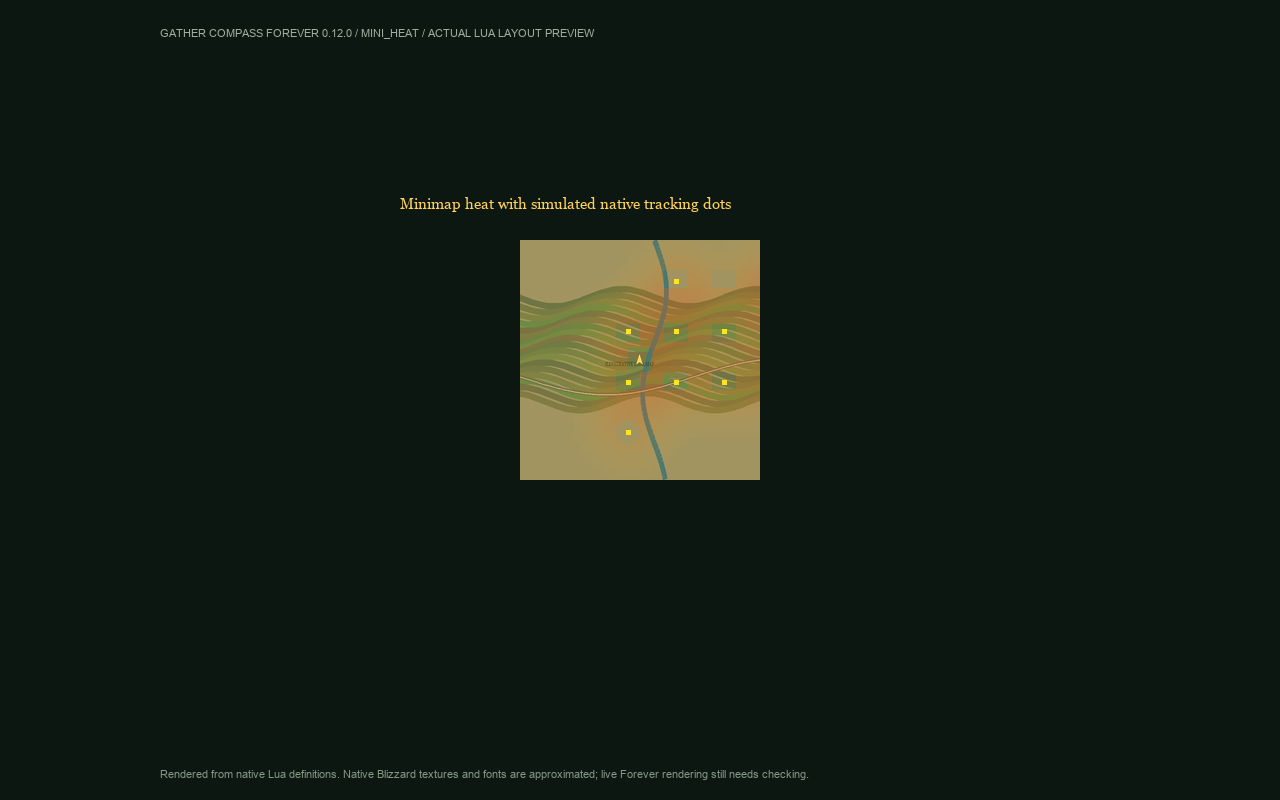
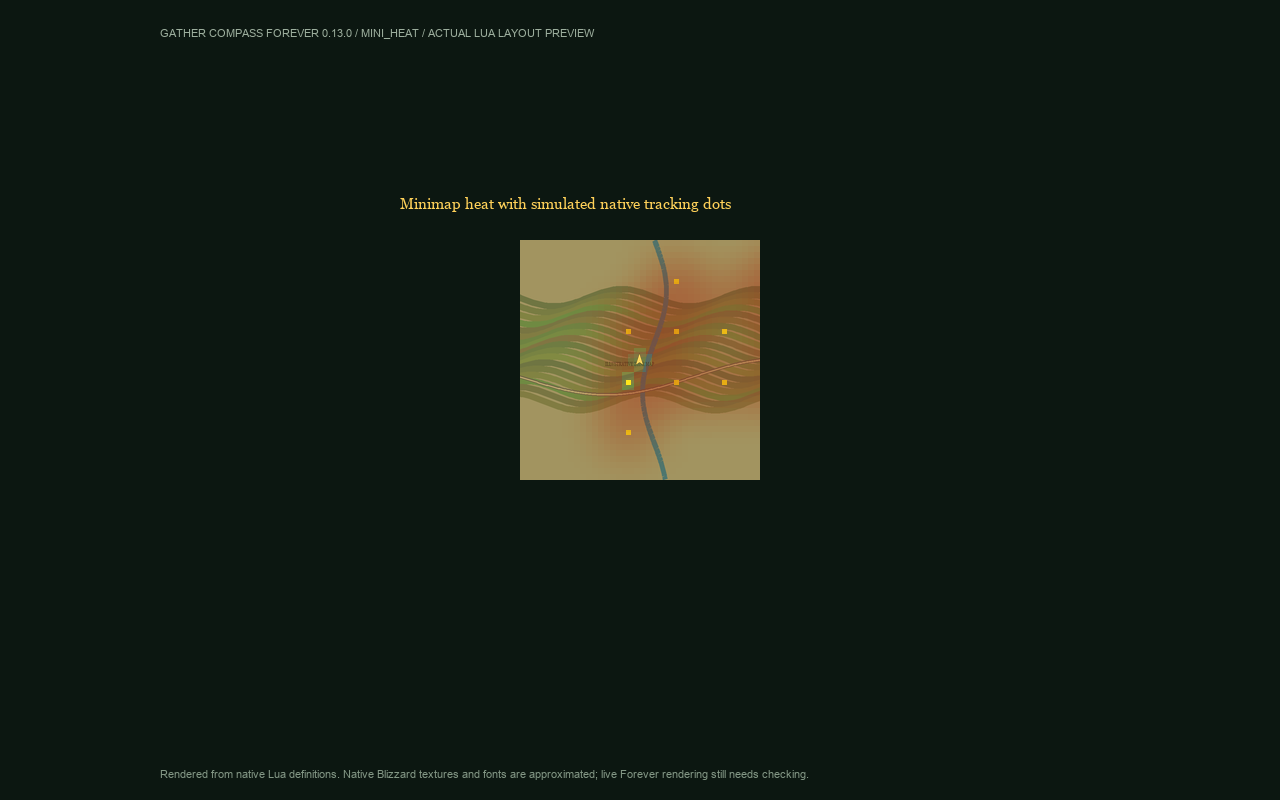
Prepare map clarity and scrolling release 0.13.0

Changed region(s): [[0.4688, 0.3438, 0.5938, 0.5625]]

diff --git a/tests/package.py b/tests/package.py
@@ -1,7 +1,7 @@
 from pathlib import Path
 import zipfile
 root = Path(__file__).resolve().parents[1]
-path = root / 'dist/GatherCompassForever-0.12.0.zip'
+path = root / 'dist/GatherCompassForever-0.13.0.zip'
 assert path.is_file(), 'Installable ZIP missing'
 with zipfile.ZipFile(path) as z:
     names = z.namelist()
@@ -11,7 +11,7 @@ with zipfile.ZipFile(path) as z:
     metadata = dict(line[3:].split(': ', 1) for line in toc.splitlines() if line.startswith('## '))
     assert metadata['Title'] == 'Gather Compass Forever'
     assert metadata['SavedVariables'] == 'GatherCompassForeverDB'
-    assert metadata['Version'] == '0.12.0'
+    assert metadata['Version'] == '0.13.0'
     assert metadata['X-License'] == 'MIT'
     assert metadata['IconTexture'] == r'Interface\AddOns\GatherCompassForever\Media\Icon'
     for texture in ['Icon', 'LogoSheet', 'EmptyEmblem', 'NodeRing', 'NodeSquare', 'GuideArrow', 'HeatBlob', 'MinimapMasks']:

diff --git a/tools/render_ui_preview.py b/tools/render_ui_preview.py
@@ -153,7 +153,7 @@ def render(scene):
         resolving.remove(k);boxes[k]=r;return r
     def visible(o):return o['shown'] is not False and (o['parent'] is None or ident(o['parent'])==0 or visible(o['parent']))
     im=Image.new('RGBA',(screen_w,screen_h),'#0c1711');d=ImageDraw.Draw(im)
-    d.text((160,27),'GATHER COMPASS FOREVER 0.12.0 / '+scene.upper()+' / ACTUAL LUA LAYOUT PREVIEW',font=ImageFont.truetype('C:/Windows/Fonts/arial.ttf',11),fill='#9cae9d')
+    d.text((160,27),'GATHER COMPASS FOREVER 0.13.0 / '+scene.upper()+' / ACTUAL LUA LAYOUT PREVIEW',font=ImageFont.truetype('C:/Windows/Fonts/arial.ttf',11),fill='#9cae9d')
     fonts={}; text_report=[]
     def font(o):
         size=int(o['fontSize'] or 12);family='georgia.ttf' if 'FRIZ' in (o['fontPath'] or '') else 'arial.ttf';key=(family,size)

diff --git a/tools/package.py b/tools/package.py
@@ -14,7 +14,7 @@ for name in files:
     assert (root / name).is_file(), f'Missing package file: {name}'
 dist = root / 'dist'
 dist.mkdir(exist_ok=True)
-path = dist / 'GatherCompassForever-0.12.0.zip'
+path = dist / 'GatherCompassForever-0.13.0.zip'
 with zipfile.ZipFile(path, 'w', zipfile.ZIP_DEFLATED) as z:
     for name in files:
         z.write(root / name, 'GatherCompassForever/' + name)

diff --git a/README.md b/README.md
@@ -14,7 +14,7 @@ where resources grow, build farming routes and follow a clear in-game guide arro
 ![Tests](https://github.com/Red463/GatherCompassForever/actions/workflows/ci.yml/badge.svg)
 ![MIT license](https://img.shields.io/badge/license-MIT-green.svg)
 
-**Current version:** 0.12.0 ? **Client interface:** 16001 ? **Command:** `/gcf`
+**Current version:** 0.13.0 ? **Client interface:** 16001 ? **Command:** `/gcf`
 
 ## What it does
 
@@ -23,7 +23,7 @@ where resources grow, build farming routes and follow a clear in-game guide arro
 - **Import all zones.** Read installed GatherMate2_Data directly, with GatherMate2's
   saved observations as a fallback. Repeated imports merge matching locations.
 - **Choose what to farm.** Filter by source, herbs/ore and individual materials, with
-  shared checkboxes for maps and generated routes, a scrolling material list and
+  independent map-marker and route-target checkboxes, scrolling lists and
   one-time Gatherable (including grey) or Skill-ups material selection.
 - **Generate a local corridor.** Start immediately, or review a large zone map and
   remove individual nodes with undo. No save step is needed.
@@ -33,7 +33,7 @@ where resources grow, build farming routes and follow a clear in-game guide arro
   requirements, and review a resource route or guide to a nearby known location.
 - **Read crowded maps.** Shared count badges group overlapping icons; hover for a
   resource breakdown. Minimap outlines retain their original spawn positions.
-- **Tune map markers.** Separate World map/Minimap pages control sizes, opacity,
+- **Tune map markers.** Visible nodes chooses everyday markers; World map/Minimap pages control sizes, opacity,
   grouping and nearby-icon hiding without losing hollow outlines.
 - **Resize the panel.** Drag its bottom-right corner to expand the map and lists while
   keeping text and controls at their normal size. Dimensions and position are saved.
@@ -42,7 +42,7 @@ where resources grow, build farming routes and follow a clear in-game guide arro
 
 ## Install
 
-1. Download `GatherCompassForever-0.12.0.zip` from
+1. Download `GatherCompassForever-0.13.0.zip` from
    [Releases](https://github.com/Red463/GatherCompassForever/releases/latest).
    Choose the addon ZIP asset rather than GitHub's automatic **Source code** ZIP.
 2. Close WoW and extract the `GatherCompassForever` folder into your Forever
@@ -76,7 +76,7 @@ These are **layout previews rendered from the addon's Lua UI**, with substitute
 fonts, placeholder resource icons and an illustrative map canvas. They are not
 in-game screenshots; actual Forever textures and rendering can differ.
 
-### Welcome and shared filters
+### Welcome and route targets
 
 Welcome introduces the workflow, imports all available zones and shows import status.
 It appears on first use; **Choose materials** in step 2 opens the Routes checkboxes.
@@ -84,7 +84,9 @@ Guide-arrow clicks still open Routes directly.
 
 ![Welcome tab with introduction, all-zone import and quick navigation](docs/images/welcome.png)
 
-Source and Gathering use independent checkboxes. The material list supports mouse-wheel
+The Routes sidebar is labelled **Route targets** and controls new routes and their
+review sketch. Everyday map markers have separate selections under **Node display >
+Visible nodes**. Both use source/type checkboxes and skill-coloured materials. The route material list supports mouse-wheel
 scrolling and a scrollbar, with icons and skill-coloured names.
 
 ![Checkbox filters and a vertically scrolling material list](docs/images/filters.png)
@@ -114,7 +116,9 @@ Exactly coincident review nodes still open the chooser so every member remains s
 ### Node Codex
 
 Node Codex combines the previous Atlas and Resources pages. Browse the full supported
-catalogue with type, skill, source and zone filters plus name search. Tiles show the
+catalogue with type, skill, source and zone filters plus name search. The tile grid
+and ranked-zone list scroll vertically; search and column headers stay visible.
+Back restores your previous scroll position. Tiles show the
 best skill-up state among currently gatherable sources; scoped results use only
 sources with matching locations. The unrestricted catalogue includes all supported
 sources. Details show every source's own requirement and colour. Unknown data stays neutral.
@@ -123,7 +127,7 @@ Codex browsing does not rewrite Routes checkboxes. Current-zone route/nearest ac
 use the selected resource intersected with those checkboxes, and preserve active
 guidance until it is stopped. Coordinate tables and the redundant Welcome button
 have been removed. Map buttons are available only when matching locations also pass
-the Routes checkboxes. Items without location data remain in the default full catalogue.
+the effective map-marker selections. Items without location data remain in the default full catalogue.
 
 ![Node Codex with skill-coloured tiles and browsing filters](docs/images/node-codex.png)
 
@@ -131,12 +135,14 @@ the Routes checkboxes. Items without location data remain in the default full ca
 
 ### Heatmap corridor
 
-Select **Heatmap corridor** above the route sketch to replace the lines with a soft,
-warm band through the generated farming areas. It is a route view, rather than a
+Select **Heatmap corridor** above the route sketch to replace the lines with a darker,
+soft burgundy band through the generated farming areas. It is a route view, rather than a
 live resource scanner. The arrow follows the same points; switching views does not
 regenerate the route. Heat also appears on the minimap, replacing its route lines,
 while resource markers and the destination marker remain. Its bounded transparent
-field leaves clearance around the player and known resources. Native unknown live
+field keeps small feathered clearance around the player and current destination.
+It no longer cuts holes around every possible spawn. Thin route lines retain their
+known-node clearance. Native unknown live
 blips are not enumerable, so check tracking contrast in your client. Unsupported
 custom minimap shapes hide heat rather than spilling outside the map. When Forever
 ignores minimap rotation, an addon-owned projection keeps icons, outlines and the
@@ -175,7 +181,7 @@ zone into one circuit. The displayed counts show when other areas are omitted.
 
 **Node Codex** offers ranked zones, personal history, skill-coloured sources and
 current-zone resource guidance in one page. Clicking a ranked zone focuses that
-resource on the world map, subject to shared checkbox filters. Closing the map
+resource on the world map, subject to the effective map-marker filters. Closing the map
 restores its usual display.
 
 ## Settings and commands
@@ -191,13 +197,27 @@ restores its usual display.
 | `/gcf inspect report` | Show the latest local capture |
 | `/gcf inspect off` | Cancel a pending capture |
 
-The sidebar filters this addon's node markers on both maps and new route generation
-together. Tick **My discoveries**, **Imported locations**, **Herbs** and **Ore** in any
-combination, then tick individual materials. Unticking every source or type gives no
-matching nodes; it does not reset your choices. These selections do not change a
-current plan or interrupt guidance already running. Review markers follow the new
-selections; regenerate to apply them to the route itself. A changed-selection message
-reminds you to generate again when you want the new choices applied.
+**Routes > Route targets** controls new route generation and the review sketch.
+Changing these choices does not change everyday map markers or interrupt the current
+route. Regenerate when you want the new choices applied to guidance.
+
+**Node display > Visible nodes** controls ordinary world-map and minimap markers
+across all zones. Marker-only users can configure everything here without generating
+a route. Sources, gathering types and material selections are independent of Routes.
+Existing shared preferences are copied into both sets on upgrade; explicit empty
+selections are retained.
+
+Optionally enable **Use route selections while following**. Both maps then use the
+active guidance's saved filter snapshot, including while paused or suspended.
+Changing the sidebar mid-route does not rewrite that snapshot. Stop/completion
+restores everyday markers without overwriting their preferences. The Visible nodes
+page identifies when the override is active. It is off by default.
+
+![Everyday map-marker choices and the optional temporary route override](docs/images/marker-filters.png)
+
+In either set, unticking every source or gathering type gives no matching nodes;
+this does not reset your choices. Marker filters do not hide the route overlay,
+destination or arrow.
 
 **All** selects all materials; untick it to clear the selection. **Gatherable** selects
 known resources your current skill can gather, including grey resources and capped
@@ -206,7 +226,7 @@ known orange, yellow and green materials across matching known zones once. It ex
 grey, too-difficult and unknown resources, and you can edit the result afterward.
 The selected materials do not change automatically when your profession skill rises.
 
-**Node display** has separate **World map** and **Minimap** pages. Configure icon
+**Node display** has **Visible nodes**, **World map** and **Minimap** pages. Configure icon
 sizes/opacities and grouping on each map; minimap outlines have their own size and
 opacity. The nearby-hide distance affects icons/counts, while hollow outlines stay
 at their real known positions. **Show route overlay** and its strength slider apply
@@ -217,15 +237,25 @@ bounded strength to keep it transparent. Existing appearance values are preserve
 
 ![Minimap markers, tracking clearance and route-overlay controls](docs/images/node-display-mini.png)
 
-**Preferences** controls arrival distance, arrow scale,
-optional labels and minimap-button visibility. Use `/gcf` to restore the minimap
-button if it is hidden.
+**Preferences** groups Navigation, Guide arrow and Panel & minimap controls.
+**Advance to next waypoint within** sets a radius: at15 yards, entering a15-yard
+radius advances the guide without requiring a harvest. Larger values advance sooner;
+smaller values require a closer approach. Changes apply immediately. Gathering and
+overlapping-stop movement safeguards still apply.
+
+![Preferences with navigation explanation and grouped arrow/panel settings](docs/images/preferences.png)
+
+The title bar includes the addon version. Header and minimap emblems use a centred
+crop of the original high-resolution badge; the launcher keeps one aligned gold ring.
+Use `/gcf` to reopen the panel when its minimap button is hidden.
+
+![Centred minimap launcher using the supplied compass-and-leaf artwork](docs/images/minimap-launcher.png)
 
 ### Panel size
 
 Drag the grip at the bottom-right corner to change width and height independently.
-Extra space enlarges the Routes map, shows more materials and increases Codex page
-capacity. Narrow layouts wrap controls or offer an interior scrollbar; normal text,
+Extra space enlarges the Routes map, shows more materials and increases the visible Codex
+area. Narrow layouts wrap controls or offer an interior scrollbar; normal text,
 buttons and icons keep their existing sizes. Preferences shows the current dimensions
 and **Reset panel size** (scroll down when needed).
 
@@ -246,7 +276,9 @@ Recorded coordinates reflect the interaction position, which can differ from the
 object's exact centre.
 
 Skill colours use **Classic reference data**, current profession rank and readable
-cap/bonus information. Unknown information stays neutral. Native tooltip inspection
+cap/bonus information. A confirmed missing profession is red with Learn Mining or
+Learn Herbalism guidance. Failed/incomplete queries and unreadable ranks remain
+neutral. Native tooltip inspection
 is optional, stored locally and does not automatically change the skill rules.
 
 Routes use nearby spatial groups and geometric connections of at most 450 yards,

diff --git a/CHANGELOG.md b/CHANGELOG.md
@@ -1,5 +1,16 @@
 # Changelog
 
+## 0.13.0
+
+- Separate everyday Map markers from Route targets, migrating existing selections into independent copies. Add Visible nodes settings and an optional route-filter snapshot override that restores everyday markers on Stop/completion.
+- Darken heat corridors with bounded composited opacity. Replace per-spawn minimap heat cutouts with small feathered player/destination clearance; retain known-node gaps for thin lines.
+- Replace Codex tile and ranked-zone pagination with recycled vertical scrolling, preserving query/Back/reflow position and all custom resources.
+- Mark confirmed missing gathering professions red, while unreadable ranks or incomplete queries remain neutral. Refresh on skill changes.
+- Group Preferences into Navigation, Guide arrow and Panel & minimap, with a live explanation of the waypoint arrival radius.
+- Include the runtime version in the title bar; show map artwork behind the marker appearance example.
+- Centre the portrait slot/mask and minimap icon/ring, using a tighter crop of the original high-resolution emblem without changing source artwork.
+- Preserve panel resizing, routes, node history, navigation behaviour and MIT licensing.
+
 ## 0.12.0
 
 - Add a draggable bottom-right panel resize grip with saved width, height and screen-relative position. Keep normal text, controls and guide-arrow size unchanged.
